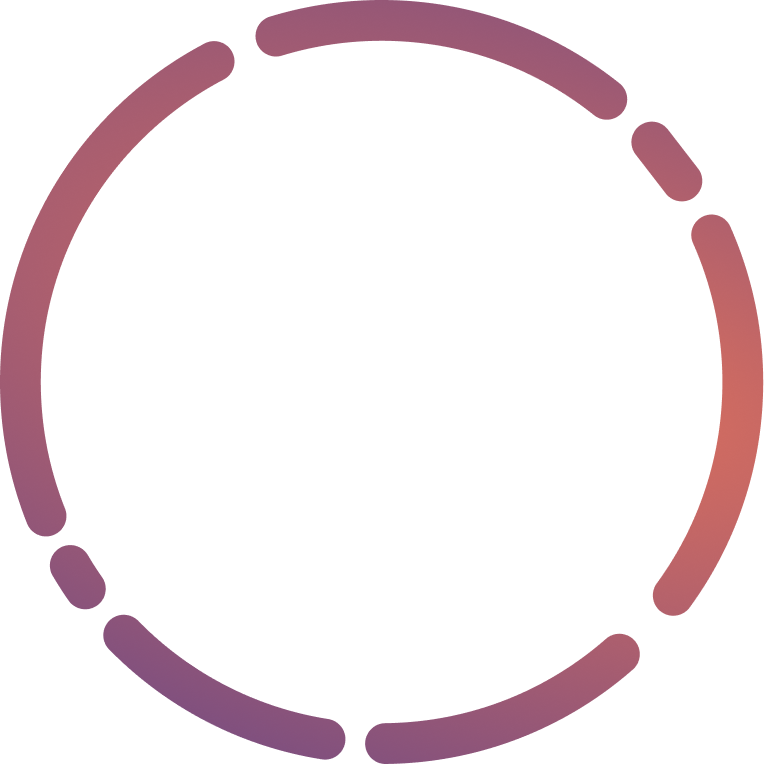
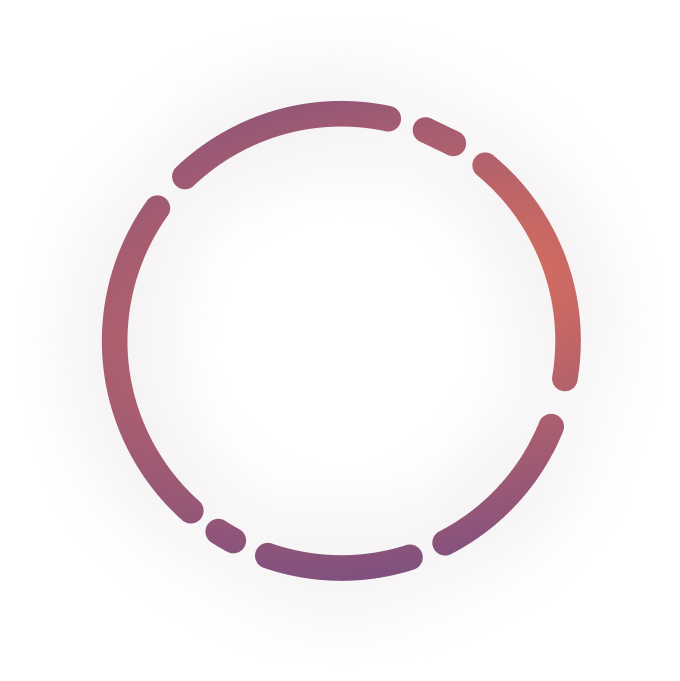
Update hero graphics

Changed region(s): [[0.0, 0.0, 1.0, 1.0], [0.1235, 0.1233, 0.8647, 0.8634]]

diff --git a/src/components/Nova/styles.js b/src/components/Nova/styles.js
@@ -3,26 +3,43 @@ import styled from 'styled-components'
 import { Animations } from 'app/styles'
 
 export const NovaComponent = styled.div`
-  width: 382px;
-  height: 382px;
+  width: 633px;
+  height: 633px;
   position: relative;
+  margin-left: 30px;
+  margin-top: 30px;
+`
+
+export const StyledSpace = styled.img`
+  position: absolute;
+  top: 0;
+  left: 0;
+  width: 633px;
+  height: 633px;
+`
+
+export const Nova = styled.div`
+  width: 340px;
+  height: 340px;
+  position: absolute;
+  left: 260px;
+  top: 150px;
 `
 
 export const StyledGlobe = styled.img`
   position: absolute;
   top: 50%;
   left: 50%;
-  margin: -147px 0 0 -147px;
-  width: 294px;
-  height: 294px;
+  margin: -142px 0 0 -142px;
+  width: 285px;
+  height: 285px;
 `
 
 export const StyledRings = styled.img`
   animation: 140s linear ${Animations.spin} infinite;
   position: absolute;
-  margin: auto;
-  width: 382px;
-  height: 382px;
+  width: 340px;
+  height: 340px;
   top: 0;
   left: 0;
 `

diff --git a/src/components/Nova/Nova.js b/src/components/Nova/Nova.js
@@ -1,11 +1,14 @@
 import React from 'react'
 
 import * as S from './styles'
-import { globe, rings } from 'app/assets/images'
+import { globe, rings, space } from 'app/assets/images'
 
 export default props => (
   <S.NovaComponent>
-    <S.StyledGlobe src={globe} />
-    <S.StyledRings src={rings} />
+    <S.StyledSpace src={space} />
+    <S.Nova>
+      <S.StyledGlobe src={globe} />
+      <S.StyledRings src={rings} />
+    </S.Nova>
   </S.NovaComponent>
 )

diff --git a/src/assets/images/index.js b/src/assets/images/index.js
@@ -4,3 +4,4 @@ export globe from './globe.png'
 export rings from './rings.png'
 export babelLogo from './babelLogo.png'
 export nails from './nails.png'
+export space from './space.png'
